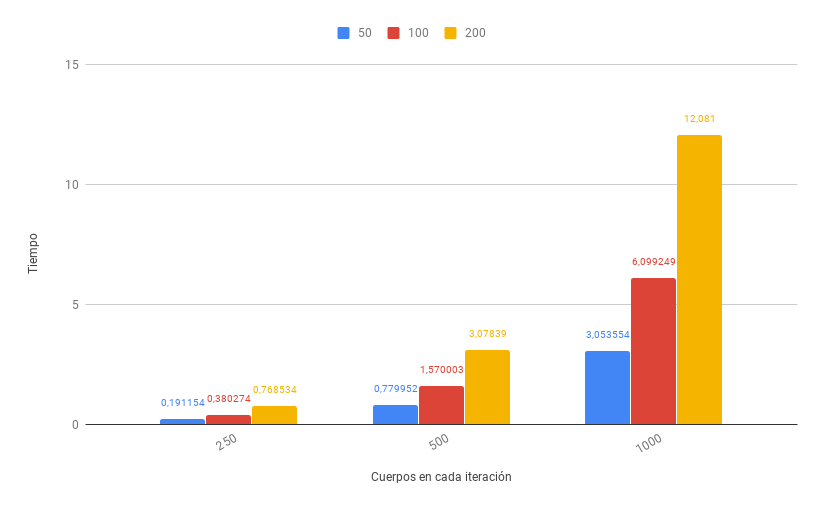
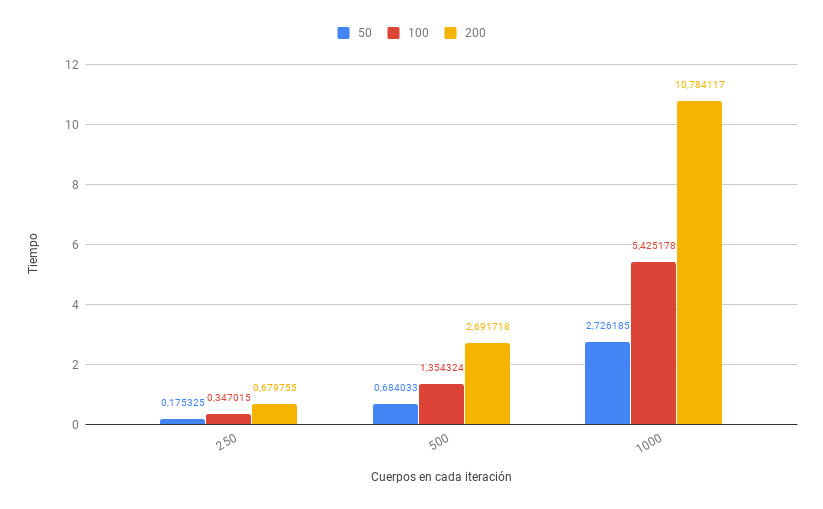
Memoria secuencial

diff --git a/memoria/main.tex b/memoria/main.tex
@@ -56,31 +56,62 @@
         \subsection{Pruebas de rendimiento}
         \subsubsection{Prámetros de la máquina empleada}
             \begin{enumerate}
-                \item Procesador $\rightarrow$ 
-                \item Cores $\rightarrow$ 
-                \item RAM $\rightarrow$ 
-                \item SO $\rightarrow$ 
-                \item Versión gcc $\rightarrow$ 
+                \item Procesador $\rightarrow$ AMD Ryzen 5 1600 Six-Core Processor
+                \item Núcleos $\rightarrow$ 12
+                \item Hilos $\rightarrow$ 24
+                \item Memoria Principal $\rightarrow$ 16032 MiB
+                \item Memoria Caché:
+                    \begin{enumerate}
+                        \item L1d $\rightarrow$ 192 KiB
+                        \item L1i $\rightarrow$ 384 KiB
+                        \item L2 $\rightarrow$ 3 MiB
+                        \item L3 $\rightarrow$ 16 MiB
+                    \end{enumerate}
+                \item Sistema Operativo $\rightarrow$ ArchLabs Linux x86\_64
+                \item Versión gcc $\rightarrow$ 9.1.0
             \end{enumerate}
+        \newpage
         \subsubsection{Pruebas}
+            Tiempo medio por ejecución
             \begin{figure}[hbt!]
                 \centering
                 \includegraphics[width=\linewidth]{images/chart.png}
             \end{figure}
-        %*Ejecutar cada prueba 10 veces y hacer media
         
-        %Hacer gráfico para tiempos totales y tiempo por iteración
+            \begin{center}
+                \noindent Asteroides Iteraciones Planetas $\rightarrow$ Tiempo \\
+                250 50 250 $\rightarrow$ 0,175325 s \\
+                250 100 250 $\rightarrow$ 0,347015 s \\
+                250 200 250 $\rightarrow$ 0,679755 s \\
+                500 50 500 $\rightarrow$ 0,684033 s \\
+                500 100 500 $\rightarrow$ 1,354324 s \\
+                500 200 500 $\rightarrow$ 2,691718 s \\
+                1000 50 1000 $\rightarrow$ 2,726185 s \\
+                1000 100 1000 $\rightarrow$ 5,425178 s \\
+                1000 200 1000 $\rightarrow$ 10,784117 s \\
+            \end{center}
+            
+            \newpage
+            Tiempo medio por iteración
+            \begin{figure}[hbt!]
+                \centering
+                \includegraphics[width=\linewidth]{images/chart2.png}
+            \end{figure}
         
-        %hacer pruebas con:
-        % 250 50 250 -> 0.191154
-        % 250 100 250 -> 0.380274
-        % 250 200 250 -> 0.768534
-        % 500 50 500 -> 0,779952
-        % 500 100 500 -> 1,570003
-        % 500 200 500 -> 3,078390
-        % 1000 50 1000 -> 3,053554
-        % 1000 100 1000 -> 6,099249
-        % 1000 200 1000 -> 12,081000
+            \begin{center}
+                \noindent Asteroides Iteraciones Planetas $\rightarrow$ Tiempo \\
+                250 50 250 $\rightarrow$ 0,003560 s \\
+                250 100 250 $\rightarrow$ 0,003476 s \\
+                250 200 250 $\rightarrow$ 0,003420 s \\
+                500 50 500 $\rightarrow$ 0,013685 s \\
+                500 100 500 $\rightarrow$ 0,013570 s \\
+                500 200 500 $\rightarrow$ 0,013482 s \\
+                1000 50 1000 $\rightarrow$ 0,054549 s \\
+                1000 100 1000 $\rightarrow$ 0,054359 s \\
+                1000 200 1000 $\rightarrow$ 0,053990 s \\
+            \end{center}
+        
+        \newpage
         \subsubsection{Análisis de resultados}
     \newpage
     \section{Paralelo}
@@ -89,11 +120,19 @@
         \subsection{Pruebas de rendimiento}
         \subsubsection{Prámetros de la máquina empleada}
             \begin{enumerate}
-                \item Procesador $\rightarrow$ 
-                \item Cores $\rightarrow$ 
-                \item RAM $\rightarrow$ 
-                \item SO $\rightarrow$ 
-                \item Versión gcc $\rightarrow$ 
+                \item Procesador $\rightarrow$ AMD Ryzen 5 1600 Six-Core Processor
+                \item Núcleos $\rightarrow$ 12
+                \item Hilos $\rightarrow$ 24
+                \item Memoria Principal $\rightarrow$ 16032 MiB
+                \item Memoria Caché:
+                    \begin{enumerate}
+                        \item L1d $\rightarrow$ 192 KiB
+                        \item L1i $\rightarrow$ 384 KiB
+                        \item L2 $\rightarrow$ 3 MiB
+                        \item L3 $\rightarrow$ 16 MiB
+                    \end{enumerate}
+                \item Sistema Operativo $\rightarrow$ ArchLabs Linux x86\_64
+                \item Versión gcc $\rightarrow$ 9.1.0
             \end{enumerate}
         \subsubsection{Pruebas}
         %*Ejecutar cada prueba 10 veces y hacer media

diff --git a/nasteroids-seq/nasteroids-seq.cpp b/nasteroids-seq/nasteroids-seq.cpp
@@ -34,8 +34,6 @@ typedef struct {
     float masa;
 }Planeta;
 
-
-
 void calculoPosicionInicial(long unsigned int seed, int num_asteroides, int num_planetas, Asteroide *asteroides, Planeta *planetas){
     default_random_engine re{seed};
     uniform_real_distribution<double> xdist{0.0, std::nextafter(width, std::numeric_limits<double>::max())};
@@ -96,7 +94,6 @@ void escribirInit(int num_asteroides, int num_planetas, int num_iteraciones, int
 
 }
 
-
 int main(int argc, char *argv[]){
     // Leer argumentos 
     int num_asteroides = 0, num_planetas = 0, num_iteraciones = 0, semilla = 0;
@@ -121,10 +118,15 @@ int main(int argc, char *argv[]){
     escribirInit(num_asteroides, num_planetas, num_iteraciones, semilla, planetas, asteroides );
     
     //Reloj
-    auto start=chrono::high_resolution_clock::now();
+    //auto start=chrono::high_resolution_clock::now();
+    chrono::duration<double> elapsed;
+    double it = 0;
 
     //Para cada iteracion
     for (int i = 0; i< num_iteraciones; ++i){
+
+        auto start=chrono::high_resolution_clock::now();
+
         //Para cada asteroide calculamos la atraccion con el resto de elementos
         for (int j = 0; j<num_asteroides; ++j){
             float fuerzax=0, fuerzay=0;
@@ -149,25 +151,6 @@ int main(int argc, char *argv[]){
                     }
                     //Calculamos el angulo
                     float alpha = atan(pendiente);
-
[1 lines of base64/hex data omitted]
-                    /*
-                    //Calculamos la fuerza entre ambos
-                    float fuerzax = (G*asteroides[j].masa*asteroides[k].masa)/(distancia*distancia)*cos(alpha);
-                    float fuerzay = (G*asteroides[j].masa*asteroides[k].masa)/(distancia*distancia)*sin(alpha);
-
-                   
-                    // La fuerza tiene el mismo valor pero sentido contrario para cada uno
-                    Fuerza fuerzaj = {fuerzax, fuerzay};
-                    Fuerza fuerzak = {fuerzax*-1, fuerzay*-1};
-
-                    // La añadimos al vector de fuerza de cada uno
-                    #pragma omp critical
-                    asteroides[j].fuerzas.push_back(fuerzaj);
-                    #pragma omp critical    
-                    asteroides[k].fuerzas.push_back(fuerzak);
-                    */
[1 lines of base64/hex data omitted]
 
                     if(k>j){
                         fuerzax = (G*asteroides[j].masa*asteroides[k].masa)/(distancia*distancia)*cos(alpha);
@@ -273,16 +256,19 @@ int main(int argc, char *argv[]){
                     break;
                 }
             }
-         }         
-
-       
+        }
+        auto end=chrono::high_resolution_clock::now();
+        elapsed = chrono::duration_cast<chrono::duration<double>>(end-start);  
+        it += elapsed.count();                
     }
 
-    auto end=chrono::high_resolution_clock::now();
+    // auto end=chrono::high_resolution_clock::now();
+    // chrono::duration<double> elapsed = chrono::duration_cast<chrono::duration<double>>(end-start);
+    // cout << elapsed.count() <<endl;
 
-    chrono::duration<double> elapsed = chrono::duration_cast<chrono::duration<double>>(end-start);
+    it /= num_iteraciones;
+    cout << it << endl;
 
-    cout << elapsed.count() <<endl;
    
     //Escribimos el resultado final
     ofstream out_file("output.txt");
@@ -293,6 +279,3 @@ int main(int argc, char *argv[]){
     out_file.close();
 
 }
-    
-    
-    
